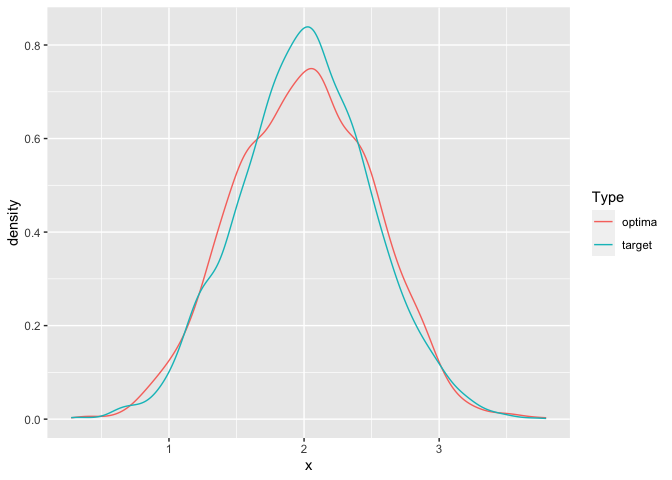
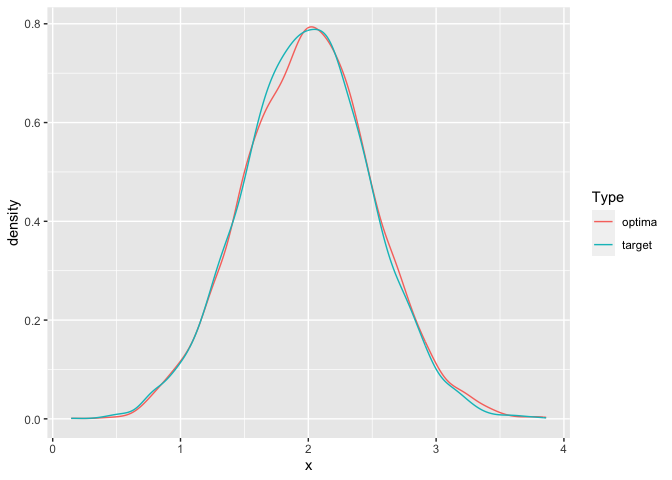
Something changed all the file modes at some point (OneDrive?), so here's a commit to update them.
- Also some numbers changed pertaining to the plots in the README

diff --git a/README.md b/README.md
@@ -71,15 +71,15 @@ pbbo_res <- suppressWarnings(pbbo(
   bayes_opt_iters_per_batch = 50,
   bayes_opt_design_points_per_batch = 40
 ))
-#> INFO [2022-07-22 16:57:35] Starting stage one CRS2 optimiser
-#> INFO [2022-07-22 16:57:42] Starting Bayes opt batch 1
+#> INFO [2023-01-30 14:11:24] Starting stage one CRS2 optimiser
+#> INFO [2023-01-30 14:11:31] Starting Bayes opt batch 1
 
 opt_lambda <- pbbo_res %>%
   get_best_lambda()
 
 print(opt_lambda)
 #>       mu    sigma 
-#> 2.013841 0.506621
+#> 2.001364 0.501134
 ```
 
 We can compare the prior predictive distribution at the optima against
@@ -90,14 +90,14 @@ suppressPackageStartupMessages(library(ggplot2))
 suppressPackageStartupMessages(library(dplyr))
 suppressPackageStartupMessages(library(tibble))
 
-n_samples <- 2e3
+n_plot_samples <- 5e3
 
 plot_tbl <- tibble(
   x = c(
-    prior_predictive_sampler(n_samples, opt_lambda),
-    target_sampler(n_samples)
+    prior_predictive_sampler(n_plot_samples, opt_lambda),
+    target_sampler(n_plot_samples)
   ),
-  grp = rep(c("optima", "target"), each = n_samples)
+  grp = rep(c("optima", "target"), each = n_plot_samples)
 )
 
 ggplot(plot_tbl) +
@@ -167,8 +167,8 @@ pbbo_single_objective_res <- suppressWarnings(pbbo(
   bayes_opt_iters_per_batch = 50,
   bayes_opt_design_points_per_batch = 40
 ))
-#> INFO [2022-07-22 16:58:16] Starting stage one CRS2 optimiser
-#> INFO [2022-07-22 16:58:26] Starting Bayes opt batch 1
+#> INFO [2023-01-30 14:12:07] Starting stage one CRS2 optimiser
+#> INFO [2023-01-30 14:12:12] Starting Bayes opt batch 1
 ```
 
 `pbbo` also accepts a secondary objective, which we set to be the
@@ -202,7 +202,7 @@ pbbo_multi_objective_res <- suppressWarnings(pbbo(
   bayes_opt_design_points_per_batch = 40,
   extra_objective_term = neg_mean_log_sd
 ))
-#> INFO [2022-07-22 16:59:33] Starting stage one CRS2 optimiser
+#> INFO [2023-01-30 14:12:59] Starting stage one CRS2 optimiser
 #> Loading required package: mco
 #> Loading required package: emoa
 #> 
@@ -210,13 +210,12 @@ pbbo_multi_objective_res <- suppressWarnings(pbbo(
 #> The following object is masked from 'package:dplyr':
 #> 
 #>     coalesce
-#> INFO [2022-07-22 16:59:45] Starting Bayes opt batch 1
+#> INFO [2023-01-30 14:13:03] Starting Bayes opt batch 1
 ```
 
 Compare the results on the observable scale:
 
 ``` r
-n_plot_samples <- 5e3
 pal_colours <- scales::hue_pal()(3)
 
 obs_scale_plot_tbl <- tibble(
